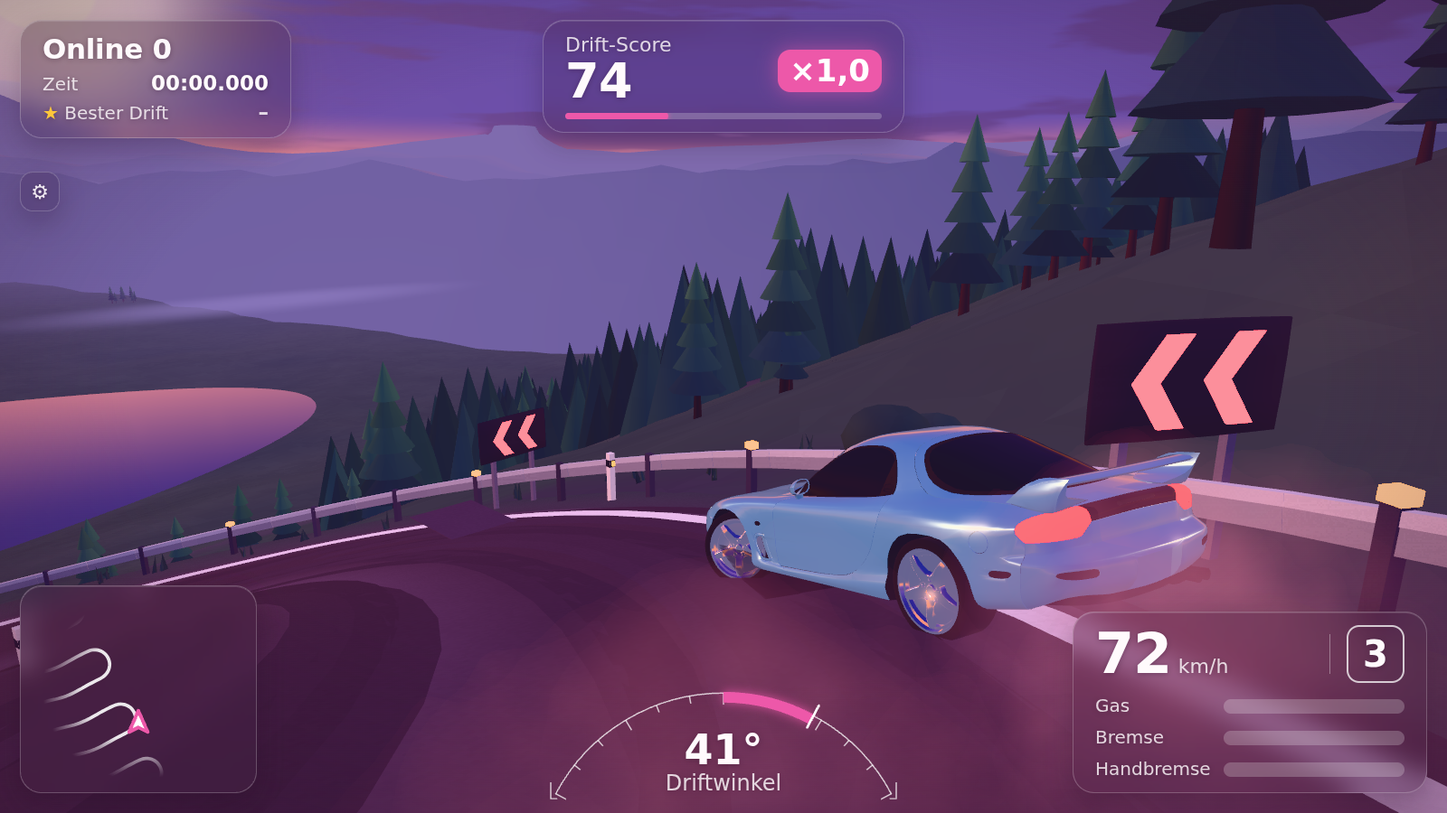
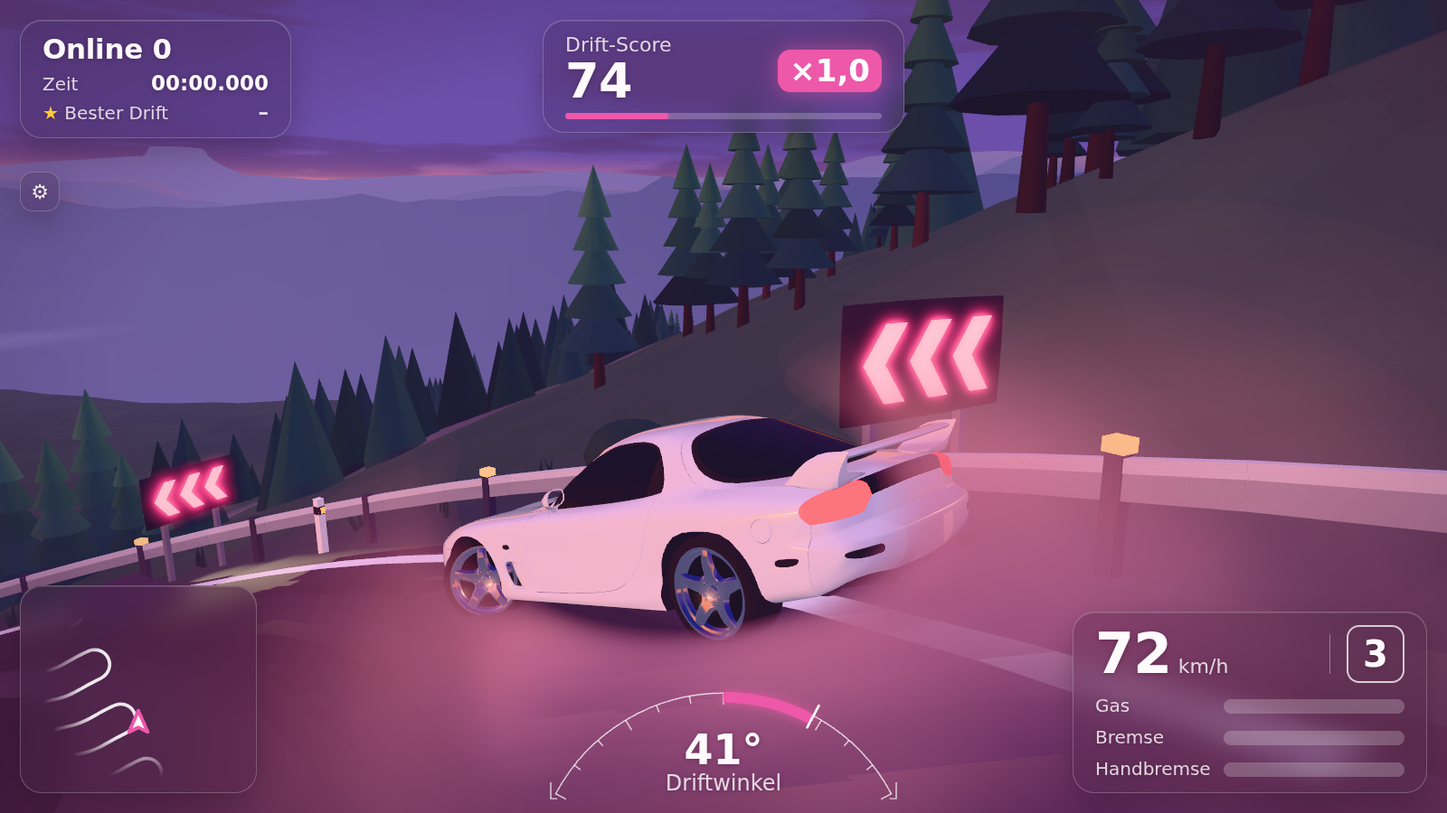
Touge round 10: lake, sun and moon in the mockup's place for shot=tal, sunset lane on the water, trees below the line of sight, smoke cleared per pixel over the car with a soft texture, three-arrow boards, stone lanterns and light pools; LOOK-LOG.md

diff --git a/game/view/look/world.js b/game/view/look/world.js
@@ -10,6 +10,7 @@ import { makeGlow } from '../../core/materials.js';
 import { mulberry32, noise2, smoothstep } from '../../core/rng.js';
 import { X } from '../space.js';
 import { makeField, bends, pointAt, insidePoly, distToPoly } from './field.js';
+import { sunDirection } from './sky.js';
 
 const C = (hex) => new THREE.Color(hex);
 const _a = new THREE.Vector3(), _b = new THREE.Vector3(), _c = new THREE.Vector3();
@@ -71,11 +72,12 @@ export function buildWorld(scene, look, tierName = 'high') {
   road(Rb, f, look, onPlaza, mulberry32(23), lite, scene);
   zones(Rb, f, scene, look);
   if (scene.plaza) plaza(S, G, f, scene, look, lite, lampHeads);
-  roadside(S, G, f, look, tier, sideInfo, onPlaza, scene, nearPlaza);
+  const pools = [];   // warm pools of light on the ground under the lamps and lanterns: [x, y, z, radius] in drawing space
+  roadside(S, G, f, look, tier, sideInfo, onPlaza, scene, nearPlaza, lampHeads, pools);
   trees(S, f, scene, look, tier, rnd, lite);
   rocks(S, f, look, tier, rnd, sideInfo, lite);
   details(S, G, f, scene, look, tier, mulberry32(29), lite, sideInfo, onPlaza);
-  if (scene.road.lamps) roadLamps(S, G, f, scene, look, sideInfo, lampHeads);
+  if (scene.road.lamps) roadLamps(S, G, f, scene, look, sideInfo, lampHeads, pools);
   if (scene.props) props(S, G, f, scene, look, lite, lampHeads);
 
   const group = new THREE.Group();
@@ -113,6 +115,8 @@ export function buildWorld(scene, look, tierName = 'high') {
       diffuseColor.rgb *= ${(1 - (look.road.grain ?? 0.32) * 0.7).toFixed(3)} + grain * ${(look.road.grain ?? 0.32).toFixed(3)};`);   // look.road.grain: how strong
   };
   group.add(solid, lights, roadMesh);
+  const poolMesh = lightPools(pools, look);
+  if (poolMesh) group.add(poolMesh);
   if (water) group.add(water);
   if (far) group.add(far);
   return { group, field: f, lampHeads, road: roadMesh, triangles: [solid, lights, water, roadMesh, far].filter(Boolean).reduce((n, m) => n + m.geometry.index.count / 3, 0) };
@@ -429,7 +433,7 @@ function railRun(S, G, look, line0, every, lite, yAt = () => 0) {
 }
 
 // ---------------------------------------------------------------- along the road: guardrails on the valley side, reflector posts on the other, chevrons in the bends
-function roadside(S, G, f, look, tier, sideInfo, onPlaza, scene, nearPlaza = () => false) {
+function roadside(S, G, f, look, tier, sideInfo, onPlaza, scene, nearPlaza = () => false, lampHeads = [], pools = []) {
   const hw = f.hw, right = (d) => [d[1], -d[0]];
   // guardrail runs: consecutive points where the land on the valley side falls by more than 2.5 m (one rail per side)
   for (const side of [-1, 1]) {
@@ -453,7 +457,9 @@ function roadside(S, G, f, look, tier, sideInfo, onPlaza, scene, nearPlaza = () 
   }
   // chevrons: three pink boards with a white arrow on the outside of each bend, facing the driver coming from the plaza
   const Cv = look.chevron, board = C(Cv.board), post = C(Cv.post);
-  const pts = [[-0.17, 0.26], [0.0, 0.26], [0.19, 0], [0.0, -0.26], [-0.17, -0.26], [0.02, 0]], hot = glow(Cv.arrow, 2.2);
+  const pts = [[-0.17, 0.26], [0.0, 0.26], [0.19, 0], [0.0, -0.26], [-0.17, -0.26], [0.02, 0]], hot = glow(Cv.arrow, Cv.glow ?? 2.2);
+  // look.chevron.count: two arrows (default) or three smaller ones side by side, as on the mockup's boards
+  const three = Cv.count === 3, arrows = three ? [-0.52, 0, 0.52] : [-0.38, 0.32], ak = three ? 1.25 : 1.5;
   for (const b of bends(f.info, { min: f.bendMin, span: f.bendSpan })) {
     const out = b.turn > 0 ? -1 : 1, mirror = b.turn > 0 ? 1 : -1;
     for (const ds of [-11, 0, 11]) {
@@ -463,11 +469,21 @@ function roadside(S, G, f, look, tier, sideInfo, onPlaza, scene, nearPlaza = () 
       S.push(trs(X(x), f.roadY(b.s + ds), z, 0, Math.atan2(-X(p.dir[0]), -p.dir[1]), 0));
       for (const sx of [-0.55, 0.55]) S.box(0.09, 3.2, 0.09, sx, 0.1, -0.07, post, { r: 0 });
       S.box(1.9, 1.0, 0.08, 0, 1.6, 0, board, { r: 0.06, jitter: 0 });
-      // the glowing double chevron is in the unlit mesh, placed through the same transform
+      // the glowing chevrons are in the unlit mesh, placed through the same transform
       G.push(S.top.clone());
-      for (const ox of [-0.38, 0.32]) G.prism(pts.map(([a, c]) => [a * 1.5 * mirror, c * 1.5]), 0.03, ox * mirror, 1.6, 0.055, hot, { bevel: 0, jitter: 0 });
+      for (const ox of arrows) G.prism(pts.map(([a, c]) => [a * ak * mirror, c * ak]), 0.03, ox * mirror, 1.6, 0.055, hot, { bevel: 0, jitter: 0 });
       G.pop();
       S.pop();
+    }
+    // look.lantern.bends: a stone lantern on the inside of every bend and one at its exit on the outside (between the road and the rail, where the
+    // chase camera looks), each with a warm pool of light round it
+    if (look.lantern?.bends) for (const [ds, sd, o] of [[0, -out, hw + 2.4], [20, out, hw + 0.95]]) {
+      const p = pointAt(f.road, f.info, b.s + ds), r = right(p.dir), side = sd;
+      const x = p.x + r[0] * side * o, z = p.z + r[1] * side * o, y = Math.max(f.height(x, z), f.roadY(b.s + ds) - 0.2), k = look.lantern.size ?? 1.1;
+      if (onPlaza(x, z)) continue;
+      stoneLantern(S, G, look, x, y, z, Math.atan2(X(p.dir[0]), p.dir[1]), k);
+      lampHeads.push([X(x), y + 1.85 * k, z, look.lantern.halo ?? 1.6]);
+      pools.push([X(x), y, z, look.lantern.pool ?? 5]);
     }
   }
 }
@@ -502,6 +518,9 @@ function trees(S, f, scene, look, tier, rnd, lite) {
   const K = scene.lake, nearLake = (x, z) => !!K && Math.hypot((x - K.x) / K.rx, (z - K.z) / K.rz) < 1.9;
   const [x0, z0, x1, z1] = scene.terrain.extent, ry = f.floor;
   const [cx0, cz0, cx1, cz1] = scene.terrain.core ?? scene.terrain.extent;
+  // scene.terrain.sight (drop per metre): below the road a tree's top stays under the line of sight from the road down into the valley, so the lake
+  // shows over the forest; the tallest a tree may be at (x, z) (Infinity above the road or without it)
+  const sight = scene.terrain.sight, capH = (x, z, e, rel) => (sight == null || rel > -1 ? Infinity : -rel + 1.2 - e * sight);
   // `near`: only within 45 m of the road or the plaza (the frame of every picture), else anywhere (half of them near the core)
   const place = (count, kind, near) => {
     let made = 0;
@@ -518,7 +537,8 @@ function trees(S, f, scene, look, tier, rnd, lite) {
       // away from the road, cherries stay low by the river and pines thin out on the valley floor
       if (!near && kind === 'cherry' && rel > ry + 14 && rnd() > 0.1) continue;
       if (kind === 'pine' && rel < ry + 3 && rnd() > 0.35) continue;
-      const h = kind === 'pine' ? 7 + rnd() * 8 : 8 + rnd() * 4;
+      const cap = capH(x, z, e, rel), h = Math.min(cap, kind === 'pine' ? 7 + rnd() * 8 : 8 + rnd() * 4);
+      if (h < 4) continue;
       (kind === 'pine' ? pine : cherry)(S, look, x, y - 0.3, z, h, rnd, lite);
       made++;
       // pines grow in groups: a few more of different sizes round the first
@@ -527,7 +547,9 @@ function trees(S, f, scene, look, tier, rnd, lite) {
         if (f.edge(gx, gz) < f.shelf + 1.5 || f.wet(gx, gz, 4)) continue;
         const gr = f.relHeight(gx, gz), gy = gr + f.groundY(gx, gz);
         if (gr < ry + 2 || f.slope(gx, gz, gy) > 0.85 || (f.base(gx, gz) < -2 && f.edge(gx, gz) < (f.openValley ?? 0))) continue;
-        pine(S, look, gx, gy - 0.3, gz, h * (0.45 + rnd() * 0.7), rnd, lite);
+        const gh = Math.min(capH(gx, gz, f.edge(gx, gz), gr), h * (0.45 + rnd() * 0.7));
+        if (gh < 3) continue;
+        pine(S, look, gx, gy - 0.3, gz, gh, rnd, lite);
         made++;
       }
     }
@@ -551,7 +573,8 @@ function trees(S, f, scene, look, tier, rnd, lite) {
     const rel = f.relHeight(x, z), y = rel + f.groundY(x, z);
     if (rel < ry + 3 || f.slope(x, z, y) > 0.9) continue;
     for (let g = 0, m = 3 + Math.floor(rnd() * 6); g < m; g++, n++) {
-      const gx = x + (rnd() - 0.5) * 22, gz = z + (rnd() - 0.5) * 22, h = 7 + rnd() * 9, gy = f.height(gx, gz);
+      const gx = x + (rnd() - 0.5) * 22, gz = z + (rnd() - 0.5) * 22, gy = f.height(gx, gz), h = Math.min(7 + rnd() * 9, capH(gx, gz, f.edge(gx, gz), gy - f.groundY(gx, gz)));
+      if (h < 3) continue;
       S.cone(h * 0.28, h, X(gx), gy + h * 0.45, gz, C(P.dark).lerp(C(P.mid), rnd() * 0.6), { seg: 5, ry: rnd() * 3 });
     }
   }
@@ -582,6 +605,19 @@ function rocks(S, f, look, tier, rnd, sideInfo, lite) {
 // ---------------------------------------------------------------- the small things: grass tufts and stones at the roadside, bushes, petals under the
 // cherry trees, power poles with sagging wires along the slope, a stone lantern and a small shrine gate by the plaza
 const TRI = (() => { const g = new THREE.BufferGeometry(); g.setAttribute('position', new THREE.Float32BufferAttribute([-0.5, 0, -0.35, 0.5, 0, -0.2, 0, 0, 0.45], 3)); g.setAttribute('normal', new THREE.Float32BufferAttribute([0, 1, 0, 0, 1, 0, 0, 1, 0], 3)); return g; })();
+
+/** A stone lantern (tōrō): plinth, shaft, the light box with a warm window, a pyramid roof; `k` scales it. */
+function stoneLantern(S, G, look, x, y, z, ry, k = 1) {
+  const stoneC = C(look.lantern?.stone ?? '#b7a8a6');
+  S.box(0.9 * k, 0.3 * k, 0.9 * k, X(x), y + 0.15 * k, z, stoneC, { r: 0.04, ry });
+  S.cyl(0.16 * k, 0.2 * k, 1.2 * k, X(x), y + 0.9 * k, z, stoneC, { seg: 6 });
+  S.box(0.75 * k, 0.15 * k, 0.75 * k, X(x), y + 1.55 * k, z, stoneC, { r: 0.03, ry });
+  S.box(0.5 * k, 0.45 * k, 0.5 * k, X(x), y + 1.85 * k, z, stoneC.clone().multiplyScalar(0.9), { r: 0.02, ry });
+  G.box(0.36 * k, 0.3 * k, 0.52 * k, X(x), y + 1.85 * k, z, glow(look.lamp.light, look.lantern?.glow ?? 2.4), { r: 0, ry });
+  G.box(0.52 * k, 0.3 * k, 0.36 * k, X(x), y + 1.85 * k, z, glow(look.lamp.light, look.lantern?.glow ?? 2.4), { r: 0, ry });
+  S.cone(0.75 * k, 0.45 * k, X(x), y + 2.3 * k, z, stoneC, { seg: 4, ry: ry + Math.PI / 4 });
+  S.ball(0.12 * k, X(x), y + 2.6 * k, z, stoneC, { detail: 0 });
+}
 
 function details(S, G, f, scene, look, tier, rnd, lite, sideInfo, onPlaza) {
   const D = tier.details ?? {}, L = look.land, right = (d) => [d[1], -d[0]], hw = f.hw;
@@ -641,17 +677,11 @@ function details(S, G, f, scene, look, tier, rnd, lite, sideInfo, onPlaza) {
   for (const m of scene.marks ?? []) {
     const y = at(m.x, m.z), stoneC = C(look.lantern?.stone ?? '#b7a8a6'), red = C(look.lantern?.gate ?? '#c8423f'), ry = m.ry ?? 0;
     if (m.type === 'lantern') {
-      S.box(0.9, 0.3, 0.9, X(m.x), y + 0.15, m.z, stoneC, { r: 0.04, ry });
-      S.cyl(0.16, 0.2, 1.2, X(m.x), y + 0.9, m.z, stoneC, { seg: 6 });
-      S.box(0.75, 0.15, 0.75, X(m.x), y + 1.55, m.z, stoneC, { r: 0.03, ry });
-      S.box(0.5, 0.45, 0.5, X(m.x), y + 1.85, m.z, stoneC.clone().multiplyScalar(0.9), { r: 0.02, ry });
-      G.box(0.36, 0.3, 0.52, X(m.x), y + 1.85, m.z, glow(look.lamp.light, 2.4), { r: 0, ry });
-      S.cone(0.75, 0.45, X(m.x), y + 2.3, m.z, stoneC, { seg: 4, ry: ry + Math.PI / 4 });
-      S.ball(0.12, X(m.x), y + 2.6, m.z, stoneC, { detail: 0 });
+      stoneLantern(S, G, look, m.x, y, m.z, ry);
     } else if (m.type === 'clip') {   // a clipping point of the zone scoring: a low white guide post with a dark band and a glowing pink reflector, as along a mountain road
       S.box(0.14, 0.95, 0.14, X(m.x), y + 0.475, m.z, C('#f4efee'), { r: 0.02, jitter: 0 });
       S.box(0.15, 0.14, 0.15, X(m.x), y + 0.7, m.z, C('#2b2630'), { r: 0.02, jitter: 0 });
-      G.box(0.1, 0.2, 0.05, X(m.x), y + 0.82, m.z, glow('#ff5a96', 2.8), { r: 0, jitter: 0 });
+      G.box(0.13, 0.3, 0.155, X(m.x), y + 0.8, m.z, glow(look.chevron?.arrow ?? '#ff5a96', 4), { r: 0, jitter: 0 });   // seen from every side, as bright as the chevrons
     } else if (m.type === 'gate') {
       S.push(trs(X(m.x), y, m.z, 0, ry, 0));
       // a torii: two red pillars, a tie beam and a black-capped top beam; m.width / m.height scale it (a road torii is wide)
@@ -704,7 +734,7 @@ function props(S, G, f, scene, look, lite, lampHeads) {
 }
 
 // ---------------------------------------------------------------- street lamps along the road (scene.road.lamps: metres apart), on the uphill side, the arm over the road
-function roadLamps(S, G, f, scene, look, sideInfo, lampHeads) {
+function roadLamps(S, G, f, scene, look, sideInfo, lampHeads, pools = []) {
   const L = look.lamp, pole = C(L.pole), every = scene.road.lamps, hgt = L.height ?? 7, right = (d) => [d[1], -d[0]];
   for (let d = every * 0.5; d < f.info.length - 5; d += every) {
     const p = pointAt(f.road, f.info, d), si = sideInfo[p.i], side = -si.valley, r = right(p.dir), o = f.hw + 0.9;
@@ -714,7 +744,26 @@ function roadLamps(S, G, f, scene, look, sideInfo, lampHeads) {
     S.box(0.1, 0.1, len, X((x + hx) / 2), y + hgt, (z + hz) / 2, pole, { r: 0, ry: Math.atan2(X(hx - x), hz - z) });
     G.box(0.42, 0.08, 0.26, X(hx), y + hgt - 0.08, hz, glow(L.light, 2.4), { r: 0, ry: Math.atan2(X(p.dir[0]), p.dir[1]) });
     lampHeads.push([X(hx), y + hgt - 0.2, hz]);
+    if (L.pool) pools.push([X(hx), y, hz, L.pool]);   // look.lamp.pool: the radius of the light on the road under the lamp
   }
+}
+
+/** The warm pools of light on the ground (one mesh of flat quads with a soft round glow, added on top; nothing is lit for real). */
+function lightPools(pools, look) {
+  if (!pools.length) return null;
+  const pos = [], uv = [], idx = [];
+  pools.forEach(([x, y, z, r], n) => {
+    for (const [a, b] of [[-1, -1], [1, -1], [1, 1], [-1, 1]]) { pos.push(x + a * r, y + 0.08, z + b * r); uv.push((a + 1) / 2, (b + 1) / 2); }
+    idx.push(n * 4, n * 4 + 2, n * 4 + 1, n * 4, n * 4 + 3, n * 4 + 2);
+  });
+  const g = new THREE.BufferGeometry(); g.setAttribute('position', new THREE.Float32BufferAttribute(pos, 3)); g.setAttribute('uv', new THREE.Float32BufferAttribute(uv, 2)); g.setIndex(idx);
+  const c = document.createElement('canvas'); c.width = c.height = 64;
+  const x2 = c.getContext('2d'), gr = x2.createRadialGradient(32, 32, 0, 32, 32, 32);
+  gr.addColorStop(0, 'rgba(255,255,255,1)'); gr.addColorStop(0.35, 'rgba(255,255,255,0.55)'); gr.addColorStop(1, 'rgba(255,255,255,0)');
+  x2.fillStyle = gr; x2.fillRect(0, 0, 64, 64);
+  const m = new THREE.MeshBasicMaterial({ map: new THREE.CanvasTexture(c), color: C(look.lamp.light).multiplyScalar(look.lamp.poolGlow ?? 0.5), transparent: true, blending: THREE.AdditiveBlending, depthWrite: false, polygonOffset: true, polygonOffsetFactor: -2, polygonOffsetUnits: -2 });
+  const mesh = new THREE.Mesh(g, m); mesh.renderOrder = 2;
+  return mesh;
 }
 
 /**
@@ -725,10 +774,12 @@ function roadLamps(S, G, f, scene, look, sideInfo, lampHeads) {
 function mirrorWater(look) {
   const s = look.sky, W = look.water;
   return new THREE.ShaderMaterial({
-    uniforms: { uTop: { value: C(s.top) }, uMid: { value: C(s.mid) }, uHorizon: { value: C(s.horizon).multiplyScalar(W.band ?? 1.4) }, uDeep: { value: C(W.deep) }, uMidH: { value: W.bandWidth ?? s.midHeight ?? 0.2 }, uStreak: { value: W.streak ?? 1 } },   // water.bandWidth: how far up the reflected sky the horizon band reaches
+    uniforms: { uTop: { value: C(s.top) }, uMid: { value: C(s.mid) }, uHorizon: { value: C(s.horizon).multiplyScalar(W.band ?? 1.4) }, uDeep: { value: C(W.deep) }, uMidH: { value: W.bandWidth ?? s.midHeight ?? 0.2 }, uStreak: { value: W.streak ?? 1 },   // water.bandWidth: how far up the reflected sky the horizon band reaches
+      // water.path: the bright streaked lane of the low sun's glow on the water, under the sun (strength, width in 1 - cos of the bearing, colour)
+      uSun: { value: sunDirection(look) }, uPath: { value: W.path ?? 0 }, uPathW: { value: W.pathWidth ?? 0.02 }, uPathC: { value: C(W.pathColour ?? s.horizon) } },
     vertexShader: /* glsl */ `varying vec3 vW; void main(){ vec4 w = modelMatrix * vec4(position, 1.0); vW = w.xyz; gl_Position = projectionMatrix * viewMatrix * w; }`,
     fragmentShader: /* glsl */ `
-      uniform vec3 uTop, uMid, uHorizon, uDeep; uniform float uMidH, uStreak; varying vec3 vW;
+      uniform vec3 uTop, uMid, uHorizon, uDeep, uSun, uPathC; uniform float uMidH, uStreak, uPath, uPathW; varying vec3 vW;
       float h1(vec2 p) { return fract(sin(dot(p, vec2(127.1, 311.7))) * 43758.5453); }
       float n1(vec2 p) { vec2 i = floor(p), f = fract(p); f = f * f * (3.0 - 2.0 * f); return mix(mix(h1(i), h1(i + vec2(1, 0)), f.x), mix(h1(i + vec2(0, 1)), h1(i + vec2(1, 1)), f.x), f.y); }
       void main() {
@@ -742,7 +793,13 @@ function mirrorWater(look) {
         float e = max(R.y, 0.0);
         vec3 sky = e < uMidH ? mix(uHorizon, uMid, smoothstep(0.0, uMidH, e)) : mix(uMid, uTop, smoothstep(uMidH, 0.8, e));
         float fres = 0.15 + 0.85 * pow(1.0 - max(dot(-V, N), 0.0), 4.0);
-        gl_FragColor = vec4(mix(uDeep, sky, fres), 1.0);
+        vec3 c = mix(uDeep, sky, fres);
+        // the lane of the sunset on the water: where the view's bearing meets the sun's, broken into vertical streaks by the ripples
+        float a = dot(fw, normalize(uSun.xz + 1e-4));
+        float lane = exp(-(1.0 - a) / uPathW) * (1.0 - smoothstep(0.05, 0.45, e));
+        float st = smoothstep(0.3, 0.7, n1(vec2(dot(vW.xz, side) * 0.35, dot(vW.xz, fw) * 0.004)));
+        c += uPathC * uPath * lane * (0.25 + 0.75 * st);
+        gl_FragColor = vec4(c, 1.0);
         #include <tonemapping_fragment>
         #include <colorspace_fragment>
       }`,

diff --git a/game/view/look/billows.js b/game/view/look/billows.js
@@ -22,6 +22,27 @@ function wispTexture(light, shade, size = 128) {
   return tex;
 }
 
+/**
+ * A soft cluster (look.smoke.texture 'soft'): the same round lobes as the cluster, but as one density (gaussian lobes added up), so no lobe
+ * shows a rim; light on top, rosy shade towards the bottom of the whole cluster, the edge thins out smoothly.
+ */
+function softTexture(light, shade, size = 128) {
+  const c = document.createElement('canvas'); c.width = c.height = size;
+  const x = c.getContext('2d'), img = x.createImageData(size, size), L = new THREE.Color(light), D = new THREE.Color(shade);
+  const lobes = [[0.5, 0.56, 0.24], [0.32, 0.6, 0.17], [0.69, 0.61, 0.17], [0.41, 0.4, 0.17], [0.6, 0.41, 0.16], [0.5, 0.29, 0.13], [0.24, 0.72, 0.11], [0.77, 0.73, 0.11]];
+  for (let py = 0; py < size; py++) for (let px = 0; px < size; px++) {
+    const u = (px + 0.5) / size, v = (py + 0.5) / size;
+    let d = 0, lit = 0;
+    for (const [bx, by, r] of lobes) { const q = ((u - bx) ** 2 + (v - by) ** 2) / (r * r), w = Math.exp(-q * 1.15); d += w; lit += w * Math.max(0, Math.min(1, 0.5 - (v - by) / r * 0.6 - (u - bx) / r * 0.15)); }
+    const edge = Math.min(1, Math.max(0, (0.5 - Math.hypot(u - 0.5, v - 0.5)) / 0.12));   // nothing reaches the quad's border
+    const a = (1 - Math.exp(-d * 3.4)) * edge, t = d > 0 ? Math.min(1, Math.max(0, lit / d * 0.7 + (0.62 - v) * 0.9)) : 0, i = (py * size + px) * 4;
+    img.data[i] = (D.r + (L.r - D.r) * t) * 255; img.data[i + 1] = (D.g + (L.g - D.g) * t) * 255; img.data[i + 2] = (D.b + (L.b - D.b) * t) * 255; img.data[i + 3] = a * 255;
+  }
+  x.putImageData(img, 0, 0);
+  const tex = new THREE.CanvasTexture(c); tex.colorSpace = THREE.SRGBColorSpace;
+  return tex;
+}
+
 /** A cluster of soft round puffs on a canvas (no file). */
 function billowTexture(light, shade, size = 128) {
   const c = document.createElement('canvas'); c.width = c.height = size;
@@ -47,30 +68,33 @@ export class Billows {
     geo.setAttribute('aData', this.data); geo.setAttribute('aAlpha', this.alpha); geo.instanceCount = capacity;
     this.car = { value: new THREE.Vector3(0, -999, 0) };
     const S = look.smoke;
+    this.carRadius = S.carRadius ?? 1.6;   // look.smoke.carRadius: the clear disc round the car on screen (metres at the car's depth)
     this.material = new THREE.ShaderMaterial({
-      uniforms: { tMap: { value: S.texture === 'wisp' ? wispTexture(S.colour, S.shade) : billowTexture(S.colour, S.shade) }, uCar: this.car, uCarView: { value: new THREE.Vector4(0, 0, 0, 0) }, uTop: { value: S.screenTop ?? 1.2 }, uClear: { value: S.clear ?? 0 }, uNear: { value: S.near ?? 3 }, uTint: { value: new THREE.Color(S.tint ?? '#ffffff').multiplyScalar(S.bright ?? 1) } },   // brighter than white: lit by the low sun
+      uniforms: { tMap: { value: (S.texture === 'wisp' ? wispTexture : S.texture === 'soft' ? softTexture : billowTexture)(S.colour, S.shade) }, uCar: this.car, uCarView: { value: new THREE.Vector4(0, 0, 0, 0) }, uCarNdc: { value: new THREE.Vector4(0, 0, 0, 0) }, uTop: { value: S.screenTop ?? 1.2 }, uClear: { value: S.clear ?? 0 }, uNear: { value: S.near ?? 3 }, uTint: { value: new THREE.Color(S.tint ?? '#ffffff').multiplyScalar(S.bright ?? 1) } },   // brighter than white: lit by the low sun
       vertexShader: /* glsl */ `
         attribute vec4 aData; attribute vec2 aAlpha;
         uniform vec4 uCarView; uniform float uTop;   // the car in view space (xyz) and its radius on screen (w, in view units at its depth)
-        varying vec2 vUv; varying float vA; varying vec3 vW; varying float vDist;
+        varying vec2 vUv; varying float vA; varying vec3 vW; varying float vDist; varying vec2 vNdc; varying float vFront;
         void main() {
           vUv = uv; vA = aAlpha.x; vW = aData.xyz;
           float c = cos(aAlpha.y), s = sin(aAlpha.y);
           vec2 p = vec2(position.x * c - position.y * s, position.x * s + position.y * c) * aData.w;
           vec4 mv = modelViewMatrix * vec4(aData.xyz, 1.0);
-          // a puff in front of the car that would cover it on screen fades out: the car is always seen, the smoke beside and behind it stays
-          if (uCarView.w > 0.0 && -mv.z < -uCarView.z - 0.5) { vec2 onCar = mv.xy * (-uCarView.z / -mv.z) - uCarView.xy; float r = uCarView.w + aData.w * 0.25 * (-uCarView.z / -mv.z); vA *= smoothstep(r * 0.6, r * 1.0, length(onCar)); }
+          // a puff in front of the car is cleared where it covers the car on screen (per pixel, in the fragment shader): the car is always seen, the smoke beside it stays
+          vFront = uCarView.w > 0.0 && -mv.z < -uCarView.z - 0.5 ? 1.0 : 0.0;
           mv.xy += p; vDist = -mv.z;
           gl_Position = projectionMatrix * mv;
+          vNdc = gl_Position.xy / gl_Position.w;   // a camera-facing quad has one depth, so this interpolates exactly
           // never in the upper part of the picture (look.smoke.screenTop, in -1..1 of the screen height): no smoke behind the HUD cards or over the view
           vA *= smoothstep(uTop + 0.25, uTop, gl_Position.y / gl_Position.w);
         }`,
       fragmentShader: /* glsl */ `
-        uniform sampler2D tMap; uniform vec3 uCar, uTint; uniform float uClear, uNear;
-        varying vec2 vUv; varying float vA; varying vec3 vW; varying float vDist;
+        uniform sampler2D tMap; uniform vec3 uCar, uTint; uniform float uClear, uNear; uniform vec4 uCarNdc;   // the car on screen: centre (xy) and the half axes of its ellipse (zw)
+        varying vec2 vUv; varying float vA; varying vec3 vW; varying float vDist; varying vec2 vNdc; varying float vFront;
         void main() {
           vec4 t = texture2D(tMap, vUv);
           float a = t.a * vA * smoothstep(uNear, uNear + 2.5, vDist) * (uClear > 0.0 ? smoothstep(uClear * 0.6, uClear + 1.5, distance(vW.xz, uCar.xz)) : 1.0);
+          if (vFront > 0.0 && uCarNdc.z > 0.0) a *= smoothstep(0.75, 1.1, length((vNdc - uCarNdc.xy) / uCarNdc.zw));
           if (a < 0.01) discard;
           gl_FragColor = vec4(t.rgb * uTint, a);
           #include <tonemapping_fragment>
@@ -90,10 +114,13 @@ export class Billows {
     // never a wall: the puffs rise at most `maxRise` m over where they started and grow to at most `maxSize` m
     this.maxRise = S.maxRise ?? 99; this.maxSize = S.maxSize ?? 99; this.base = new Float32Array(this.cap);
   }
-  /** The car's place for the fade (drawing space) and the camera: puffs in front of the car that would cover it fade out. */
-  aim(camera, radius = 1.6) {
-    const v = this.material.uniforms.uCarView.value, p = this.car.value.clone().add(new THREE.Vector3(0, 0.7, 0)).applyMatrix4(camera.matrixWorldInverse);
-    v.set(p.x, p.y, p.z, radius);
+  /** The car's place for the fade (drawing space) and the camera: smoke in front of the car is cleared where it covers the car (an ellipse `radius` m wide, 0.6 of that high). */
+  aim(camera, radius = this.carRadius) {
+    const u = this.material.uniforms, p = this.car.value.clone().add(new THREE.Vector3(0, 0.7, 0)).applyMatrix4(camera.matrixWorldInverse);
+    u.uCarView.value.set(p.x, p.y, p.z, radius);
+    const P = camera.projectionMatrix.elements, d = -p.z;
+    if (d < 0.5) { u.uCarNdc.value.set(0, 0, 0, 0); return; }
+    u.uCarNdc.value.set((P[0] * p.x + P[8] * p.z) / d, (P[5] * p.y + P[9] * p.z) / d, (P[0] * radius) / d, (P[5] * radius * 0.6) / d);
   }
   rnd() { this.seed = (this.seed * 16807) % 2147483647; return this.seed / 2147483647; }
   emit(x, y, z, vx, vz, strength) {

diff --git a/game/view/look/stage.js b/game/view/look/stage.js
@@ -92,8 +92,8 @@ export function createStage({ canvas, look, scene0, tierName = 'high', shadowSpa
       const patches = (newScene.mist ?? []).slice(0, tier.mist).map(([x, z, w, d, y]) => [x, z, w, d, y ?? stage.field.groundY(x, z) + newLook.mist.y]);   // a patch may give its own absolute height
       stage.mist = patches.length ? makeMist(newLook, patches) : new THREE.Group();
       scene.add(stage.mist);
-      stage.halos = new Halos(64);
-      for (const [x, y, z] of stage.world.lampHeads) stage.halos.add(x, y, z, new THREE.Color(newLook.lamp.light).multiplyScalar(newLook.lamp.halo ?? 0.55), newLook.lamp.haloSize ?? 2.6);
+      stage.halos = new Halos(Math.max(64, stage.world.lampHeads.length));
+      for (const [x, y, z, size] of stage.world.lampHeads) stage.halos.add(x, y, z, new THREE.Color(newLook.lamp.light).multiplyScalar(newLook.lamp.halo ?? 0.55), size ?? newLook.lamp.haloSize ?? 2.6);   // a head may give its own halo size (a stone lantern's is smaller)
       scene.add(stage.halos.points);
       stage.env = makeSkyEnvironment(renderer, newLook, tier.env);
       stage.world.road.material.envMap = stage.env;   // the road shines in the low sun

diff --git a/game/view/look/sky.js b/game/view/look/sky.js
@@ -54,10 +54,10 @@ export function makeSky(look, radius = 1800) {
         col = mix(col, uSun, disc * (1.0 - dens * 0.15));
         if (uMoonGlow > 0.0) {
           float m = dot(d, uMoonDir);
-          col += uMoon * pow(max(m, 0.0), 220.0) * uMoonGlow;
+          col += uMoon * (pow(max(m, 0.0), 2400.0) + 0.25 * pow(max(m, 0.0), 300.0)) * uMoonGlow;
           float disc = smoothstep(uMoonCos - 0.00015, uMoonCos + 0.00005, m);
           float mare = 0.88 + 0.12 * fbm(vec2(d.x, d.y) * 900.0);
-          col = mix(col, uMoon * mare, disc * (1.0 - dens * 0.7));
+          col = mix(col, uMoon * mare, disc * (1.0 - dens * 0.3));
         }
         gl_FragColor = vec4(col, 1.0);
         #include <tonemapping_fragment>

diff --git a/docs/LOOK-LOG.md b/docs/LOOK-LOG.md
@@ -440,3 +440,17 @@ below, greener and lighter cedars, a mauve-grey road. Palette against touge.png 
 layout as the mockup: hill left, valley right): mean 107 before, 58 now; brightness 81 / 91, saturation 0.42 / 0.33. shot=kehre is
 laid out the other way round (hill right), so its boxes compare different things (mean 77). Game numbers unchanged: high 355k / 49,
 phone 130k / 22. Not done: the lake's orange reflection, lanterns, torii and rock wall in the view, three-arrow boards.
+
+## Touge round 10 (2026-11-26, the chief's round-9 list)
+
+Done: the lake, the sun and the moon moved so that from shot=tal (the mockup's layout) they lie right of the middle: the lake at
+(591, -438), the terrain extent to x 820; below the road the trees keep under the line of sight down into the valley
+(`terrain.sight`). The water shows the sunset as a lane of vertical streaks under the sun (`water.path`, `pathWidth`, `pathColour`).
+Moon smaller and brighter with a tight halo, at about 0.83 / 0.10 of the picture. Smoke: cleared per pixel only where it covers the
+car (an ellipse round the car on screen, `smoke.carRadius`), a soft dense cluster texture without rims (`smoke.texture: 'soft'`),
+kept below the middle of the screen. Chevron boards with three arrows in strong pink (`chevron.count`, `chevron.glow`); the clipping
+post's reflector bigger and as bright as the boards. Stone lanterns at every bend and warm pools of light on the ground under lamps and
+lanterns (`lantern.bends`, `lamp.pool`); halos sized per head. Lighter rocks.
+Palette shot=tal: mean 63 (brightness 91 / 91, saturation 0.41 / 0.33). High 351k / 52, phone 133k / 25.
+Not done: the stone lanterns do not show in shot=tal or shot=kehre yet (placement); smoke lacks the mockup's shaded round shapes;
+scene.environment for the car (G1); the big boulder above the board in shot=tal; E1, E2, E5, F6.
